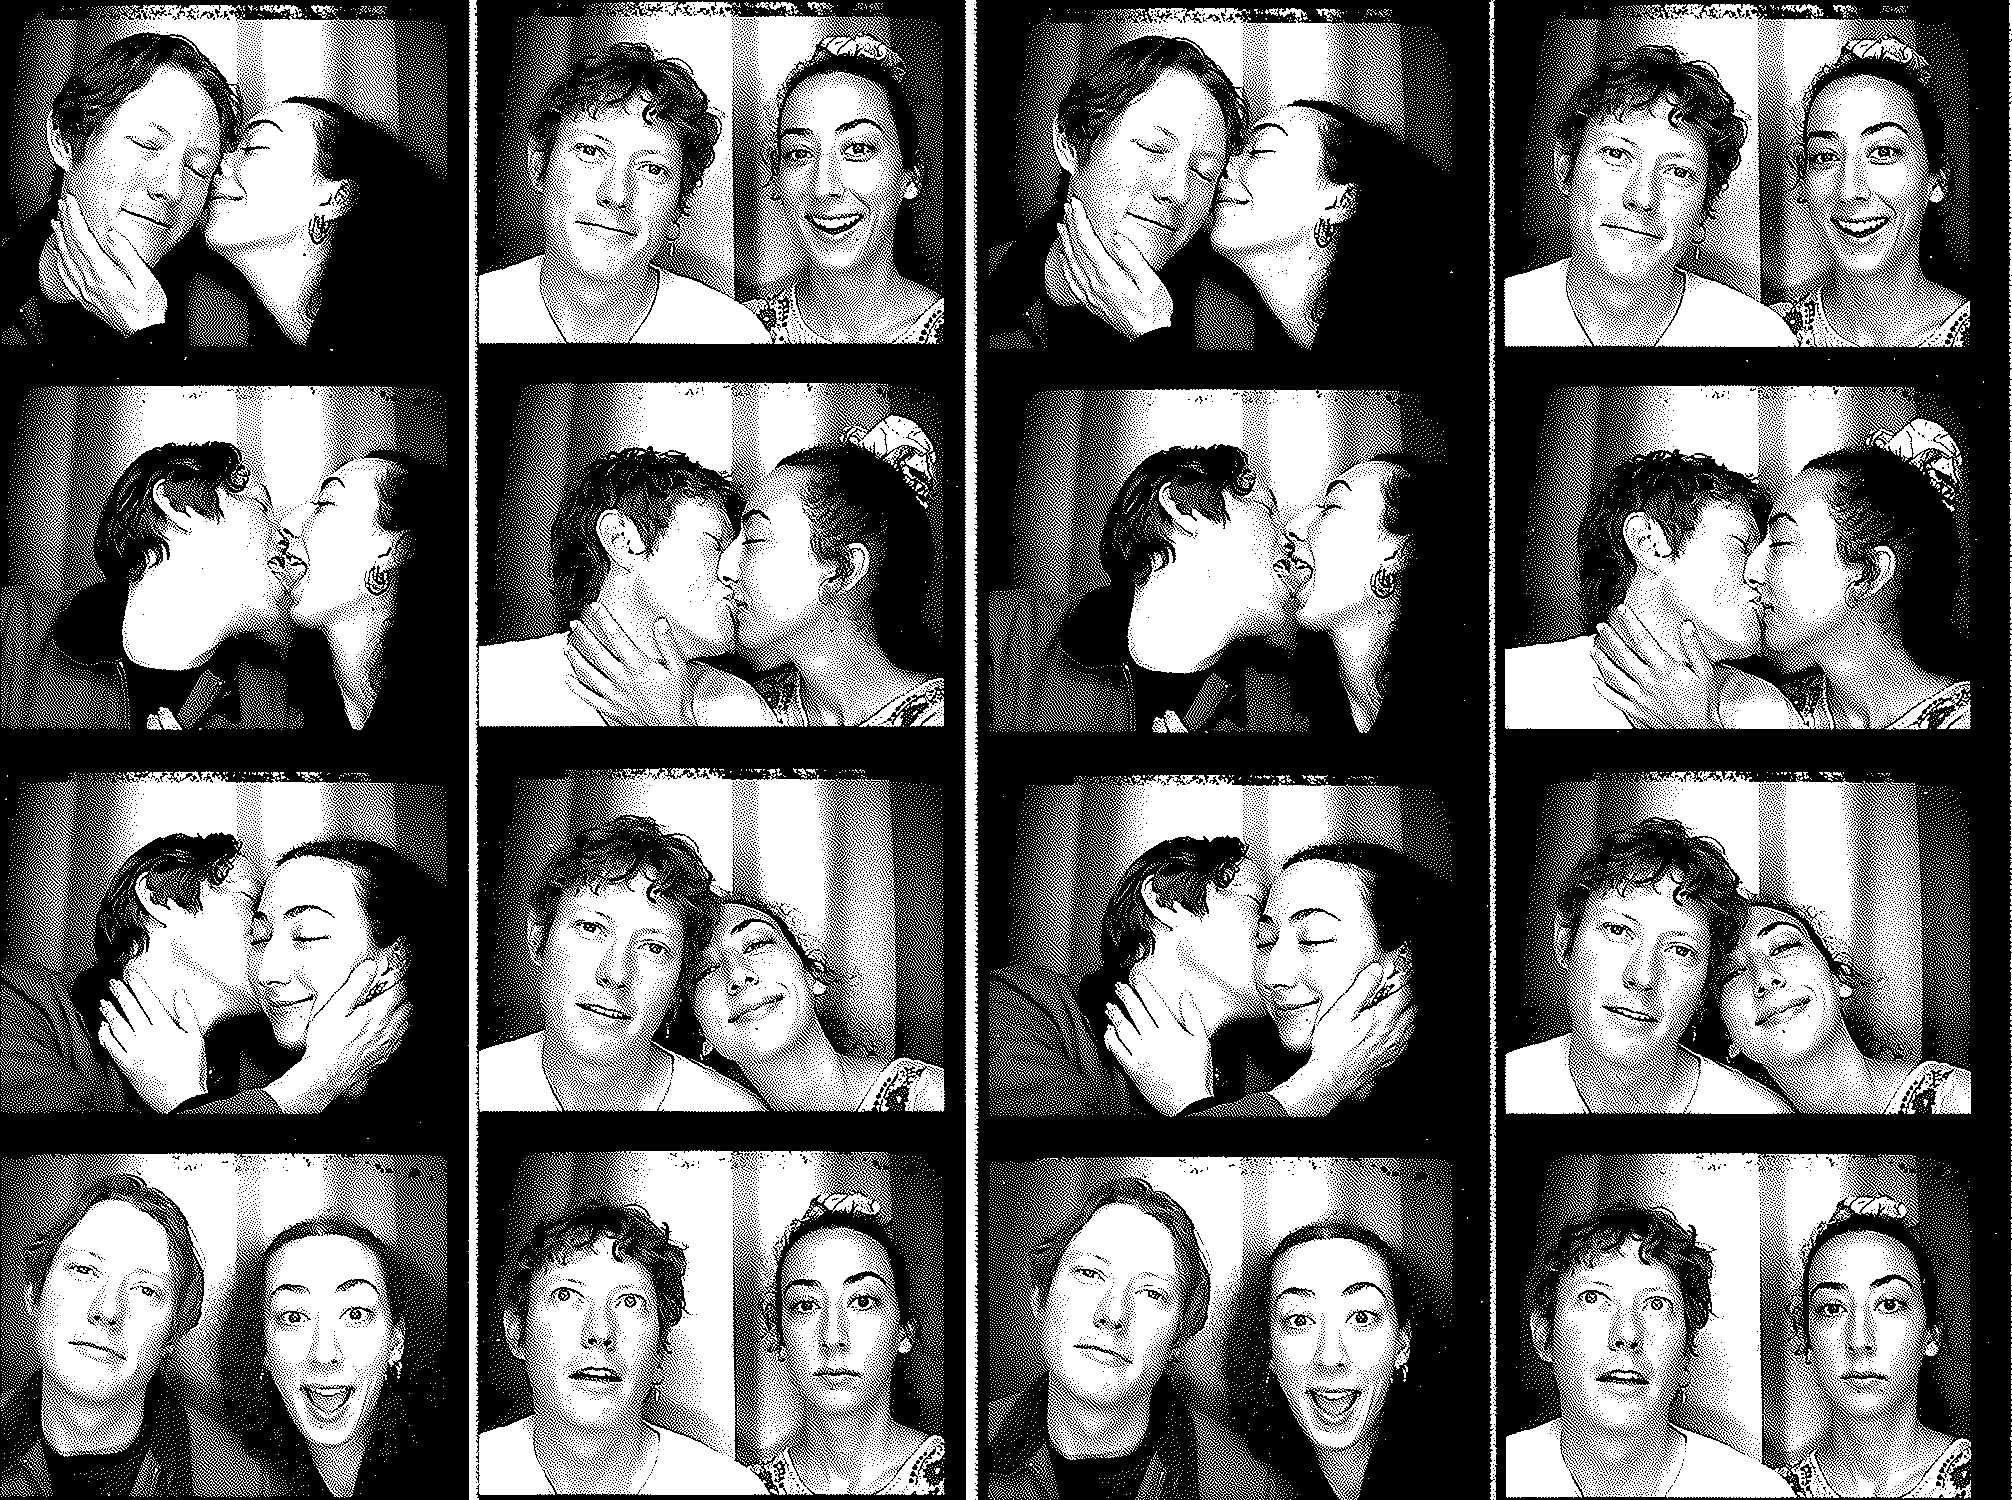
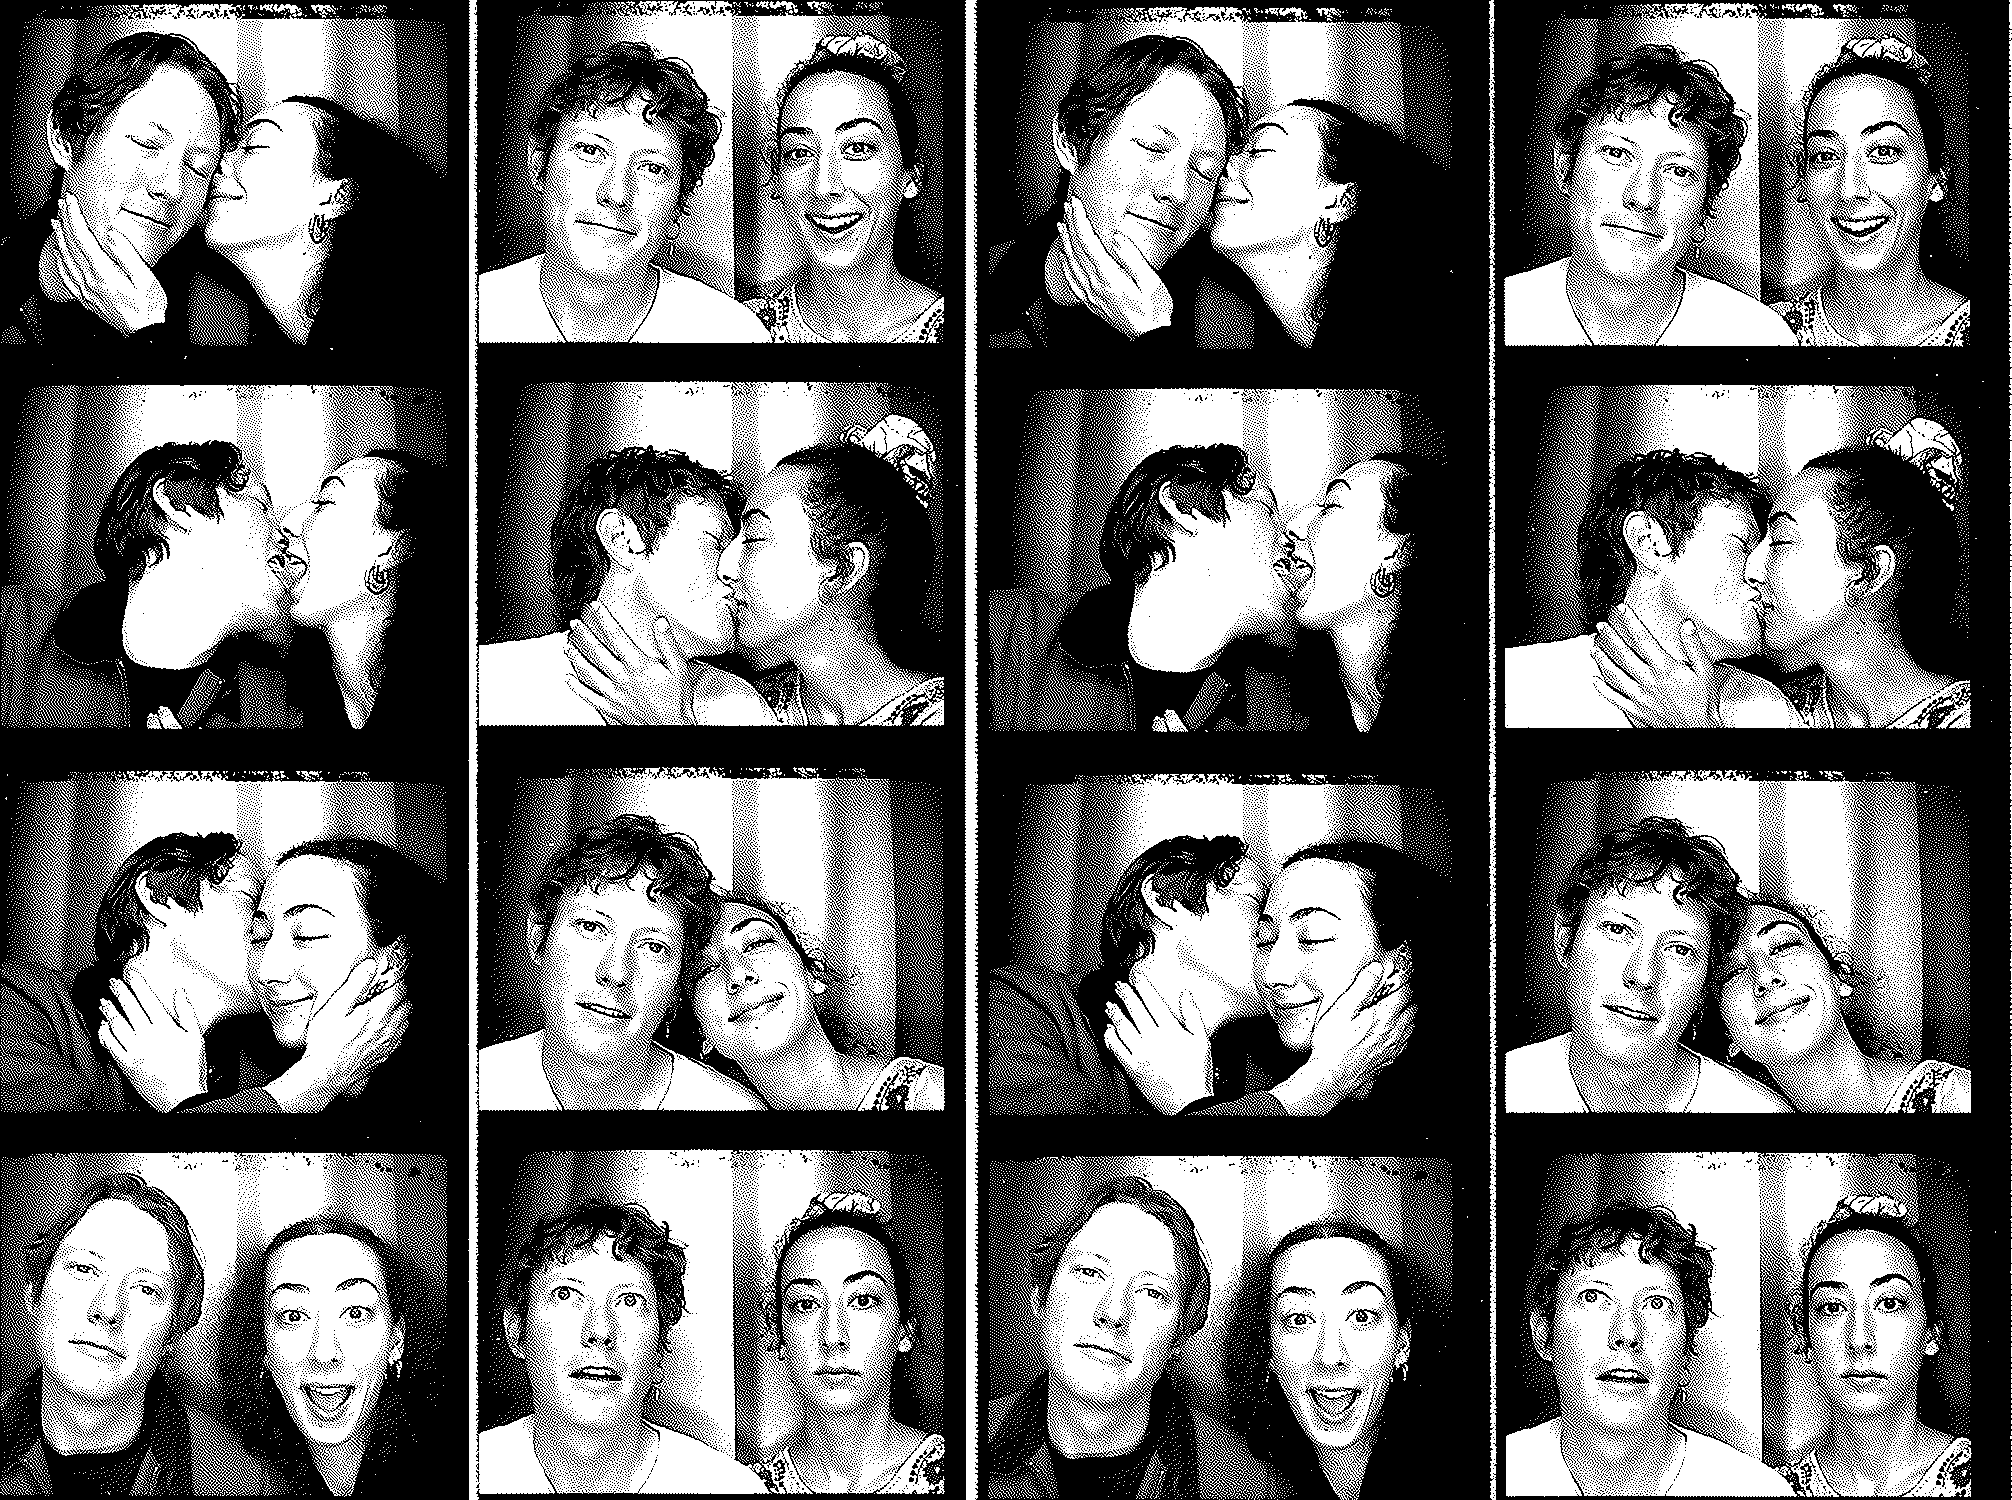
Updating with color photo, animations

diff --git a/src/components/icons/_flower-wink.js b/src/components/icons/_flower-wink.js
@@ -11,31 +11,31 @@ const FlowerWink = ({ className }) => {
       <g clipPath="url(#clip0_1465_12)">
         <path
           d="M119.981 163.079C119.981 153.126 112.626 145.838 112.626 136.108C112.626 125.302 112.626 114.496 112.626 103.689C112.626 89.4718 114.486 61.3031 124.885 50.2927C132.497 42.2335 138.994 33.7322 146.952 25.7739C154.963 17.7633 165.278 12.9043 173.378 5.61402C181.211 -1.43562 178.604 16.6371 178.826 20.8701C179.388 31.5355 183.73 40.4463 183.73 51.6548C183.73 64.232 183.73 76.8093 183.73 89.3865C183.73 99.8642 178.674 107.983 176.511 117.719C174.857 125.163 176.375 134.603 176.375 142.238C176.375 153.186 187.027 133.05 191.086 128.753C206.935 111.971 217.006 100.791 242.575 99.3302C252.348 98.7717 317.972 80.64 320.899 90.8848C326.212 109.48 309.869 130.286 295.154 139.65C287.212 144.704 276.733 147.371 268.32 152.046C259.371 157.017 251.396 163.627 242.575 168.528C236.448 171.931 229.78 177.237 224.867 182.149C221.505 185.512 235.826 173.128 240.123 170.979C250.587 165.748 263.489 163.079 274.995 163.079C291.316 163.079 300.182 170.808 314.906 175.338C335.859 181.786 349.107 202.82 359.039 220.698C371.909 243.864 343.21 246.443 326.484 246.443C298.093 246.443 270.741 233.214 242.575 231.732C236.992 231.438 222.356 226.113 235.22 226.828C253.52 227.844 268.154 262.301 275.539 275.729C290.246 302.469 296.64 329.784 299.105 360.591C300.212 374.432 305.369 388.62 296.517 399.685C291.885 405.474 284.314 396.531 281.669 393.555C272.017 382.697 257.671 378.956 247.615 368.9C225.936 347.222 212.39 315.616 208.113 285.673C207.401 280.691 206.262 255.828 197.352 267.284C189.903 276.861 192.277 292.21 190.541 303.926C187.372 325.315 185.117 345.902 179.371 366.585C175.888 379.126 169.664 387.49 163.57 398.459C160.505 403.977 146.061 412.811 139.596 413.17C120.2 414.248 111.121 404.835 106.496 386.336C97.857 351.78 106.739 310.985 123.659 280.905C126.171 276.44 133.794 257.987 132.241 259.928C124.823 269.2 113.226 272.107 103.363 278.317C78.624 293.894 47.3869 290.577 19.4545 290.577C-8.96371 290.577 8.66753 260.412 18.3647 246.307C28.1254 232.109 45.753 224.092 61.1364 218.11C75.0137 212.713 90.305 201.847 105.134 199.993C116.37 198.589 120.469 207.213 108.948 207.213C93.5207 207.213 84.7874 205.954 71.4887 197.405C37.078 175.284 17.0553 153.211 5.28807 113.497C-1.17529 91.6828 29.4072 64.5397 50.1029 76.0374C60.4758 81.8001 66.2074 94.5937 74.6217 103.008C82.203 110.589 87.992 118.071 96.5524 125.075C100.717 128.483 130.006 154.389 122.433 158.175"
-          stroke="#f8f1dc"
+          stroke="#8d4584"
           strokeWidth="8"
           strokeLinecap="round"
         />
         <path
           d="M146.953 190.05C147.236 187.791 147.749 188.426 149.405 187.598"
-          stroke="#f8f1dc"
+          stroke="#8d4584"
           strokeWidth="8"
           strokeLinecap="round"
         />
         <path
           d="M146.953 212.117C158.544 212.117 170.373 209.665 181.279 209.665C187.777 209.665 210.617 209.835 213.154 204.761"
-          stroke="#f8f1dc"
+          stroke="#8d4584"
           strokeWidth="8"
           strokeLinecap="round"
         />
         <path
           d="M149.406 212.117C149.406 228.853 175.36 250.199 191.633 237.18C202.478 228.504 218.058 217.805 218.058 202.309"
-          stroke="#f8f1dc"
+          stroke="#8d4584"
           strokeWidth="8"
           strokeLinecap="round"
         />
         <path
           d="M183.633 184.167C183.633 183.374 184.752 182.768 185.195 182.215C185.757 181.513 186.869 181.158 187.347 180.418C187.771 179.763 189.153 179.252 189.873 179.012C190.679 178.743 191.485 178.139 192.225 177.728C193.176 177.199 194.002 176.722 195.106 176.521C195.518 176.447 195.993 176.328 196.365 176.122C196.811 175.874 197.409 175.999 197.884 175.853C199.591 175.328 201.488 175.664 203.16 175.107"
-          stroke="#f8f1dc"
+          stroke="#8d4584"
           strokeWidth="8"
           strokeLinecap="round"
         />

diff --git a/src/components/icons/_flower.js b/src/components/icons/_flower.js
@@ -10,31 +10,31 @@ const Flower = ({ className }) => {
     >
       <path
         d="M119.981 163.079C119.981 153.126 112.626 145.838 112.626 136.108C112.626 125.302 112.626 114.496 112.626 103.689C112.626 89.4718 114.486 61.3031 124.885 50.2927C132.497 42.2335 138.994 33.7322 146.952 25.7739C154.963 17.7633 165.278 12.9043 173.378 5.61402C181.211 -1.43562 178.604 16.6371 178.826 20.8701C179.388 31.5355 183.73 40.4463 183.73 51.6548C183.73 64.232 183.73 76.8093 183.73 89.3865C183.73 99.8642 178.674 107.983 176.511 117.719C174.857 125.163 176.375 134.603 176.375 142.238C176.375 153.186 187.027 133.05 191.086 128.753C206.935 111.971 217.006 100.791 242.575 99.3302C252.348 98.7717 317.972 80.64 320.899 90.8848C326.212 109.48 309.869 130.286 295.154 139.65C287.212 144.704 276.733 147.371 268.32 152.046C259.371 157.017 251.396 163.627 242.575 168.528C236.448 171.931 229.78 177.237 224.867 182.149C221.505 185.512 235.826 173.128 240.123 170.979C250.587 165.748 263.489 163.079 274.995 163.079C291.316 163.079 300.182 170.808 314.906 175.338C335.859 181.786 349.107 202.82 359.039 220.698C371.909 243.864 343.21 246.443 326.484 246.443C298.093 246.443 270.741 233.214 242.575 231.732C236.992 231.438 222.356 226.113 235.22 226.828C253.52 227.844 268.154 262.301 275.539 275.729C290.246 302.469 296.64 329.784 299.105 360.591C300.212 374.432 305.369 388.62 296.517 399.685C291.885 405.474 284.314 396.531 281.669 393.555C272.017 382.697 257.671 378.956 247.615 368.9C225.936 347.222 212.39 315.616 208.113 285.673C207.401 280.691 206.262 255.828 197.352 267.284C189.903 276.861 192.277 292.21 190.541 303.926C187.372 325.315 185.117 345.902 179.371 366.585C175.888 379.126 169.664 387.49 163.57 398.459C160.505 403.977 146.061 412.811 139.596 413.17C120.2 414.248 111.121 404.835 106.496 386.336C97.857 351.78 106.739 310.985 123.659 280.905C126.171 276.44 133.794 257.987 132.241 259.928C124.823 269.2 113.226 272.107 103.363 278.317C78.624 293.894 47.3869 290.577 19.4545 290.577C-8.96371 290.577 8.66753 260.412 18.3647 246.307C28.1254 232.109 45.753 224.092 61.1364 218.11C75.0137 212.713 90.305 201.847 105.134 199.993C116.37 198.589 120.469 207.213 108.948 207.213C93.5207 207.213 84.7874 205.954 71.4887 197.405C37.078 175.284 17.0553 153.211 5.28807 113.497C-1.17529 91.6828 29.4072 64.5397 50.1029 76.0374C60.4758 81.8001 66.2074 94.5937 74.6217 103.008C82.203 110.589 87.992 118.071 96.5524 125.075C100.717 128.483 130.006 154.389 122.433 158.175"
-        stroke="#f8f1dc"
+        stroke="#8d4584"
         strokeWidth="8"
         strokeLinecap="round"
       />
       <path
         d="M146.952 190.05C147.235 187.791 147.748 188.426 149.404 187.598"
-        stroke="#f8f1dc"
+        stroke="#8d4584"
         strokeWidth="8"
         strokeLinecap="round"
       />
       <path
         d="M191.085 180.242C194.507 179.814 192.841 178.668 191.085 177.79"
-        stroke="#f8f1dc"
+        stroke="#8d4584"
         strokeWidth="8"
         strokeLinecap="round"
       />
       <path
         d="M146.952 212.117C158.543 212.117 170.372 209.665 181.278 209.665C187.776 209.665 210.616 209.835 213.153 204.761"
-        stroke="#f8f1dc"
+        stroke="#8d4584"
         strokeWidth="8"
         strokeLinecap="round"
       />
       <path
         d="M149.404 212.117C149.404 228.853 175.358 250.199 191.631 237.18C202.476 228.504 218.056 217.805 218.056 202.309"
-        stroke="#f8f1dc"
+        stroke="#8d4584"
         strokeWidth="8"
         strokeLinecap="round"
       />

diff --git a/src/components/_landing.js b/src/components/_landing.js
@@ -4,20 +4,23 @@ import Flower from './icons/_flower';
 import FlowerWink from './icons/_flower-wink';
 const Landing = () => {
   const [winking, setWinking] = useState(false);
-  const [colorShader, setColorShader] = useState('color-0');
+  const [colorShader, setColorShader] = useState('color-3');
   const counterRef = useRef(0);
   useEffect(() => {
-    const blink = setInterval(() => {
-      counterRef.current++;
-      setColorShader(`color-${(counterRef.current + 1) % 3}`);
-    }, 500);
+    // const blink = setInterval(() => {
+    //   counterRef.current++;
+    //   setColorShader(`color-${(counterRef.current + 1) % 4}`);
+    // }, 500);
     const wink = setInterval(() => {
       setWinking(true);
       setTimeout(() => {
         setWinking(false);
       }, 1000);
     }, 5000);
-    return () => clearInterval(wink);
+    return () => {
+      clearInterval(wink);
+      // clearInterval(blink);
+    };
   }, []);
   return (
     <section className="min-h-[100vh] flex flex-col items-center justify-center relative overflow-hidden">
@@ -26,14 +29,25 @@ const Landing = () => {
       ) : (
         <Flower className="w-[100%] h-[100%] max-h-[100vh] max-w-[100%]" />
       )}
-      <Image
-        src="/img/dither-225-atkinson.png"
-        width={2012}
-        height={1768}
-        priority
-        className="absolute top-[50%] left-[50%] translate-x-[-50%] translate-y-[-50%] w-[100%] min-h-[100vh] h-auto z-[-1] object-cover"
-        alt="Brianna and Sean"
-      />
+      {colorShader === 'color-3' ? (
+        <Image
+          src="/img/scan-final.png"
+          width={2012}
+          height={1500}
+          priority
+          className="absolute top-[50%] left-[50%] translate-x-[-50%] translate-y-[-50%] w-[100%] min-h-[100vh] h-auto z-[-1] object-cover"
+          alt="Brianna and Sean"
+        />
+      ) : (
+        <Image
+          src="/img/dither-225-atkinson.png"
+          width={2012}
+          height={1500}
+          priority
+          className="absolute top-[50%] left-[50%] translate-x-[-50%] translate-y-[-50%] w-[100%] min-h-[100vh] h-auto z-[-1] object-cover"
+          alt="Brianna and Sean"
+        />
+      )}
       <div
         className={`absolute top-0 left-0 w-[100%] h-[100%] z-[-2] ${colorShader}`}
       ></div>

diff --git a/src/pages/index.js b/src/pages/index.js
@@ -25,7 +25,7 @@ export default function Home() {
               className="nav-link text-[#f8f1dc]"
               onClick={navClick}
             >
-              <FlowerTwo className="md:w-[6rem] w-[2rem] h-auto" />
+              <FlowerTwo className="home-icon md:w-[6rem] w-[2rem] h-auto" />
             </a>
           </li>
           <li className="px-2 md:px-0 md:py-4">

diff --git a/src/styles/globals.css b/src/styles/globals.css
@@ -88,3 +88,17 @@ button:hover {
   filter: brightness(85%);
   opacity: 0.5;
 }
+.home-icon {
+  animation-name: rotate;
+  animation-duration: 15s;
+  animation-iteration-count: infinite;
+  animation-timing-function: linear;
+}
+@keyframes rotate {
+  from {
+    transform: rotate(-360deg);
+  }
+  to {
+    transform: rotate(360deg);
+  }
+}
